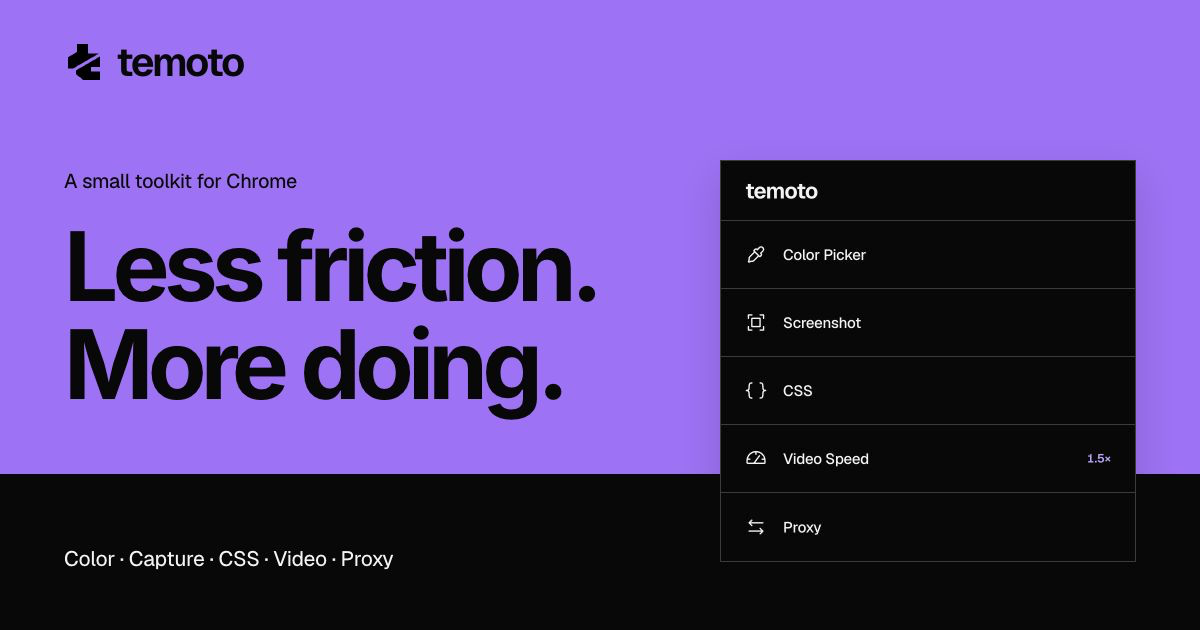
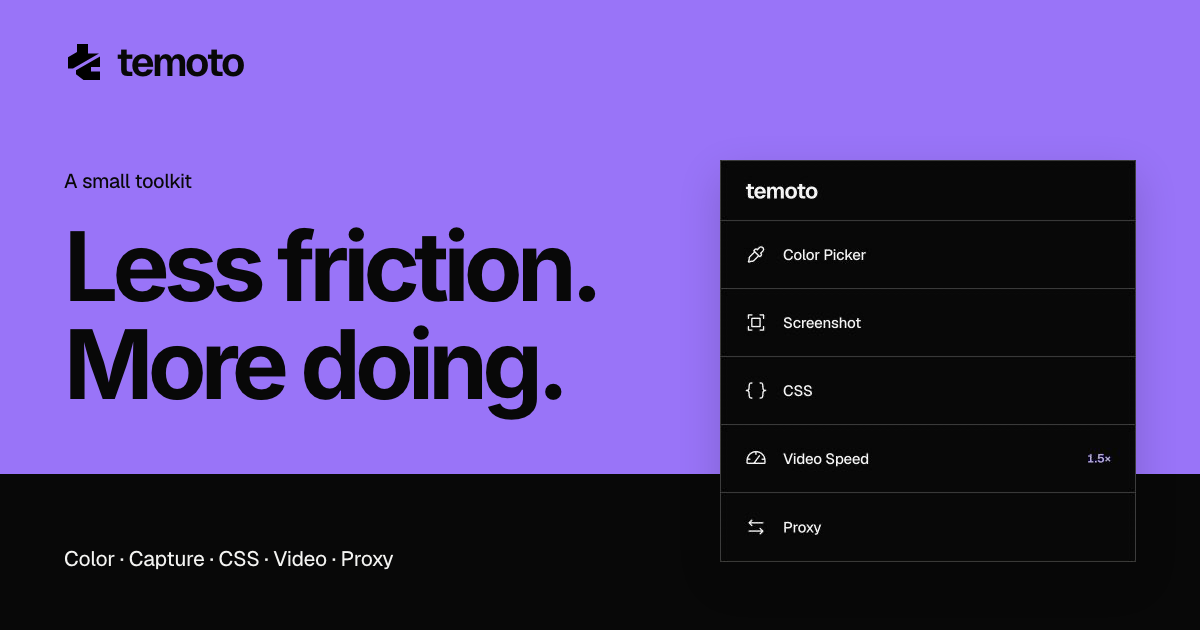
feat: follow browser appearance and simplify temoto branding

diff --git a/browser/temoto-chrome/src/styles.css b/browser/temoto-chrome/src/styles.css
@@ -6,9 +6,58 @@
   color: #f4f4f2;
   background: transparent;
   font-synthesis: none;
-  --black: rgba(8, 8, 8, 0.82);
-  --ink: #f4f4f2;
-  --line: rgba(255, 255, 255, 0.105);
+}
+
+body[data-surface="popup"], body[data-surface="capture"] {
+  color-scheme: dark;
+  --black: var(--temoto-popup-bg);
+  --ink: var(--temoto-popup-text);
+  --line: var(--temoto-popup-line);
+  --temoto-popup-on-accent: #080808;
+  --temoto-launcher-hover: #17131f;
+  --temoto-launcher-active: rgba(255, 255, 255, .065);
+  --temoto-launcher-disabled: #e7e7e4;
+  --temoto-swatch-border: rgba(255, 255, 255, .28);
+  --temoto-empty-text: #939390;
+  --temoto-capture-stage: #111;
+  --temoto-capture-placeholder: #777774;
+  --temoto-capture-action: #171717;
+  --temoto-capture-status: #8e8e8b;
+  --temoto-capture-toolbar: #c5c5c2;
+  --temoto-preview-bg: #050505;
+  --temoto-preview-shadow: rgba(0, 0, 0, .72);
+}
+
+@media (prefers-color-scheme: light) {
+  body[data-surface="popup"], body[data-surface="capture"] {
+    color-scheme: light;
+    --temoto-popup-bg: #f4f4f2;
+    --temoto-popup-surface: rgba(8, 8, 8, .045);
+    --temoto-popup-surface-hover: rgba(8, 8, 8, .08);
+    --temoto-popup-text: #161616;
+    --temoto-popup-muted: #62625e;
+    --temoto-popup-quiet: #62625e;
+    --temoto-popup-line: #c7c7c3;
+    --temoto-popup-line-strong: #858580;
+    --temoto-popup-accent-soft: rgba(153, 116, 248, .14);
+    --temoto-popup-control-text: #3d3d39;
+    --temoto-popup-accent-text: #6540b8;
+    --temoto-popup-focus: #6540b8;
+    --temoto-popup-control-hover-bg: rgba(8, 8, 8, .055);
+    --temoto-popup-control-hover-text: #161616;
+    --temoto-launcher-hover: #eae4f5;
+    --temoto-launcher-active: #ddd3f2;
+    --temoto-launcher-disabled: #3d3d39;
+    --temoto-swatch-border: rgba(8, 8, 8, .28);
+    --temoto-empty-text: #62625e;
+    --temoto-capture-stage: #e8e8e5;
+    --temoto-capture-placeholder: #62625e;
+    --temoto-capture-action: #e8e8e5;
+    --temoto-capture-status: #62625e;
+    --temoto-capture-toolbar: #3d3d39;
+    --temoto-preview-bg: #e8e8e5;
+    --temoto-preview-shadow: rgba(8, 8, 8, .12);
+  }
 }
 
 * { box-sizing: border-box; }
@@ -25,30 +74,27 @@ body {
 
 button, input, select { font: inherit; }
 button { color: inherit; }
-button:focus-visible, input:focus-visible { outline: 2px solid #f4f4f2; outline-offset: 2px; }
+button:focus-visible, input:focus-visible { outline: 2px solid var(--temoto-popup-focus); outline-offset: 2px; }
 
 body[data-surface="popup"] {
   width: var(--temoto-popup-width);
   min-width: var(--temoto-popup-width);
   height: var(--temoto-popup-height);
   overflow: hidden;
-  --black: var(--temoto-popup-bg);
-  --ink: var(--temoto-popup-text);
-  --line: var(--temoto-popup-line);
   font-family: var(--temoto-popup-font);
 }
 body[data-surface="popup"] button:focus-visible,
 body[data-surface="popup"] input:focus-visible { outline-color: var(--temoto-popup-focus); outline-offset: -2px; }
-body[data-surface="capture"] { min-width: 320px; min-height: 100vh; background: #080808; }
+body[data-surface="capture"] { min-width: 320px; min-height: 100vh; background: var(--temoto-popup-bg); }
 
 .app-shell { background: var(--black); }
 .popup-shell { width: var(--temoto-popup-width); min-width: var(--temoto-popup-width); max-height: 580px; display: flex; flex-direction: column; overflow: hidden; position: relative; border: 1px solid var(--line); background: var(--temoto-popup-bg); }
 .app-header { height: var(--temoto-popup-header-height); min-height: var(--temoto-popup-header-height); padding-left: 24px; display: flex; align-items: center; justify-content: space-between; border-bottom: 1px solid var(--line); background: var(--temoto-popup-header-bg); flex: 0 0 auto; }
 .brand-lockup { display: flex; align-items: center; gap: 8px; }
 .brand-name { font-size: var(--temoto-popup-brand-size); line-height: normal; font-weight: var(--temoto-popup-brand-weight); letter-spacing: var(--temoto-popup-brand-tracking); }
-.brand-context { color: #92928f; font-weight: 520; }
+.brand-context { color: var(--temoto-popup-muted); font-weight: 520; }
 .icon-button { width: var(--temoto-popup-header-height); height: 100%; padding: 0; display: grid; place-items: center; border: 0; border-left: 1px solid var(--line); border-radius: 0; background: transparent; cursor: pointer; transition: background .18s ease, color .18s ease, transform .18s ease; }
-.icon-button:hover { background: rgba(255,255,255,.045); color: #fff; }
+.icon-button:hover { background: var(--temoto-popup-control-hover-bg); color: var(--temoto-popup-control-hover-text); }
 .icon-button:active { transform: scale(.96); }
 
 .launcher-header { height: var(--temoto-popup-header-height); min-height: var(--temoto-popup-header-height); padding-left: 24px; background: var(--temoto-popup-header-bg); flex: 0 0 var(--temoto-popup-header-height); }
@@ -60,11 +106,11 @@ body[data-surface="capture"] { min-width: 320px; min-height: 100vh; background: 
 .launcher-label strong { font-size: var(--temoto-label-font-size); font-weight: var(--temoto-label-font-weight); letter-spacing: -.015em; }
 .launcher-card.has-error { padding-block: 12px; }
 .launcher-error { color: var(--temoto-popup-muted); font-size: 11px; line-height: 1.45; overflow-wrap: anywhere; }
-.launcher-card:hover { background: #17131f; color: #fff; }
+.launcher-card:hover { background: var(--temoto-launcher-hover); color: var(--temoto-popup-control-hover-text); }
 .launcher-card:hover > svg { color: var(--temoto-popup-accent-text); }
-.launcher-card:active { background: rgba(255,255,255,.065); }
+.launcher-card:active { background: var(--temoto-launcher-active); }
 .launcher-card:disabled { opacity: var(--temoto-popup-disabled-opacity); cursor: default; }
-.launcher-card:disabled:hover { background: transparent; color: #e7e7e4; }
+.launcher-card:disabled:hover { background: transparent; color: var(--temoto-launcher-disabled); }
 .launcher-meta { margin-left: auto; display: inline-flex; align-items: center; color: var(--temoto-popup-muted); font-size: 11px; line-height: 1.4; letter-spacing: 0; white-space: nowrap; }
 .launcher-meta.is-accent { color: var(--temoto-popup-accent-text); font-size: .75rem; font-weight: 600; font-variant-numeric: tabular-nums; }
 
@@ -85,14 +131,14 @@ body[data-surface="capture"] { min-width: 320px; min-height: 100vh; background: 
 .tool-screen-body .screenshot-actions { width: 100%; }
 .tool-screen-body .screenshot-actions p { margin: 0; padding: 0 24px; text-align: left; }
 .color-readout { min-height: 80px; margin: 0; padding: 0 24px; display: flex; align-items: center; gap: 13px; border-bottom: 1px solid var(--line); }
-.color-readout i { width: 32px; height: 32px; flex: 0 0 auto; border: 1px solid rgba(255,255,255,.28); border-radius: 0; }
+.color-readout i { width: 32px; height: 32px; flex: 0 0 auto; border: 1px solid var(--temoto-swatch-border); border-radius: 0; }
 .color-readout strong { font: 500 21px/1 "IBM Plex Mono", monospace; letter-spacing: -.035em; }
 .speed-screen .speed-control { margin: 0; padding: 0; }
 .speed-screen .speed-value { height: 96px; padding: 0; border-bottom: 1px solid var(--line); align-items: center; font-size: 3.75rem; letter-spacing: -.045em; }
 .speed-screen .speed-value small { color: var(--temoto-popup-muted); font-size: 25px; }
 .speed-screen .speed-shortcuts { height: 48px; margin: 0; border-bottom: 0; }
 .speed-screen:has(.empty-note) .speed-value { height: 76px; font-size: 46px; }
-.empty-note { min-height: 48px; margin: 0; padding: 10px 24px; display: flex; align-items: center; border: 0; border-bottom: 1px solid var(--line); border-radius: 0; background: transparent; color: #939390; font-size: 10px; text-align: left; flex: 0 0 auto; }
+.empty-note { min-height: 48px; margin: 0; padding: 10px 24px; display: flex; align-items: center; border: 0; border-bottom: 1px solid var(--line); border-radius: 0; background: transparent; color: var(--temoto-empty-text); font-size: 10px; text-align: left; flex: 0 0 auto; }
 .screenshot-actions { display: flex; flex-direction: column; }
 .screenshot-actions > button { padding: 0 24px; justify-content: flex-start; gap: 12px; }
 .screenshot-actions p { min-height: 40px; color: var(--temoto-popup-muted); font-size: 11px; line-height: 1.6; border-bottom: 1px solid var(--line); display: flex; align-items: center; }
@@ -105,7 +151,7 @@ body[data-surface="capture"] { min-width: 320px; min-height: 100vh; background: 
 .speed-presets button { min-height: var(--temoto-control-height); border: 0; border-right: 1px solid var(--line); border-bottom: 1px solid var(--line); background: transparent; color: var(--temoto-popup-control-text); font-size: var(--temoto-control-font-size); font-weight: var(--temoto-control-font-weight); line-height: 1.4; font-variant-numeric: tabular-nums; cursor: pointer; }
 .speed-presets button:last-child { border-right: 0; }
 .speed-presets button:hover:not(:disabled) { background: var(--temoto-popup-control-hover-bg); color: var(--temoto-popup-control-hover-text); }
-.speed-presets button.is-active { background: var(--temoto-popup-accent); color: var(--temoto-popup-bg); }
+.speed-presets button.is-active { background: var(--temoto-popup-accent); color: var(--temoto-popup-on-accent); }
 .speed-stepper { display: grid; grid-template-columns: repeat(2, minmax(0, 1fr)); }
 .speed-stepper button { min-height: var(--temoto-action-row-height); padding: 0 16px; border: 0; border-bottom: 1px solid var(--line); background: transparent; color: var(--temoto-popup-text); font-size: var(--temoto-control-font-size); font-weight: var(--temoto-control-font-weight); line-height: 1.4; font-variant-numeric: tabular-nums; cursor: pointer; }
 .speed-stepper button + button { border-left: 1px solid var(--line); }
@@ -119,19 +165,19 @@ body[data-surface="capture"] { min-width: 320px; min-height: 100vh; background: 
 .tool-error { margin: 0; padding: 12px 24px; flex: 0 0 auto; border-bottom: 1px solid var(--line); color: var(--ink); background: var(--temoto-popup-accent-soft); font-size: .75rem; line-height: 1.6; overflow-wrap: anywhere; }
 .capture-shell { min-height: 100vh; }
 .capture-content { width: min(100% - 48px, 1120px); margin: 0 auto; padding: 32px 0 48px; }
-.capture-stage { min-height: 300px; max-height: 70vh; overflow: auto; border: 1px solid var(--line); background: #111; }
-.capture-stage p { padding: 24px; color: #777774; font-size: 12px; }
+.capture-stage { min-height: 300px; max-height: 70vh; overflow: auto; border: 1px solid var(--line); background: var(--temoto-capture-stage); }
+.capture-stage p { padding: 24px; color: var(--temoto-capture-placeholder); font-size: 12px; }
 .capture-stage canvas { display: none; max-width: 100%; height: auto; margin: auto; }
 .capture-stage.is-actual canvas { max-width: none; margin: 0; }
 .capture-stage.is-ready canvas { display: block; }
 .capture-actions { width: min(100%, 320px); margin: 14px 0 0 auto; display: grid; grid-template-columns: repeat(2, minmax(0, 1fr)); gap: 8px; }
-.capture-actions button { min-height: var(--temoto-control-height); padding: 0 16px; display: flex; align-items: center; justify-content: center; gap: 8px; border: 1px solid var(--line); border-radius: 0; background: #171717; font-size: var(--temoto-control-font-size); font-weight: var(--temoto-control-font-weight); line-height: 1.4; cursor: pointer; }
-.capture-actions button:last-child { background: var(--temoto-popup-accent); color: var(--temoto-popup-bg); border-color: var(--temoto-popup-accent); }
-.capture-status { color: #8e8e8b; font-size: 10px; text-align: right; }
+.capture-actions button { min-height: var(--temoto-control-height); padding: 0 16px; display: flex; align-items: center; justify-content: center; gap: 8px; border: 1px solid var(--line); border-radius: 0; background: var(--temoto-capture-action); font-size: var(--temoto-control-font-size); font-weight: var(--temoto-control-font-weight); line-height: 1.4; cursor: pointer; }
+.capture-actions button:last-child { background: var(--temoto-popup-accent); color: var(--temoto-popup-on-accent); border-color: var(--temoto-popup-accent); }
+.capture-status { color: var(--temoto-capture-status); font-size: 10px; text-align: right; }
 
 @media (min-width: 700px) {
-  body[data-surface="popup"] { width: 100%; height: 100vh; display: grid; place-items: center; background: #050505; }
-  body[data-surface="popup"] .popup-shell { box-shadow: 0 40px 120px rgba(0,0,0,.72); }
+  body[data-surface="popup"] { width: 100%; height: 100vh; display: grid; place-items: center; background: var(--temoto-preview-bg); }
+  body[data-surface="popup"] .popup-shell { box-shadow: 0 40px 120px var(--temoto-preview-shadow); }
 }
 
 .color-screen .color-readout { min-height: 88px; }
@@ -139,15 +185,15 @@ body[data-surface="capture"] { min-width: 320px; min-height: 100vh; background: 
 .color-formats { display: grid; grid-template-columns: repeat(3, minmax(0, 1fr)); }
 .color-formats button { min-height: var(--temoto-control-height); border: 0; border-right: 1px solid var(--line); border-bottom: 1px solid var(--line); background: transparent; cursor: pointer; font-size: var(--temoto-control-font-size); font-weight: var(--temoto-control-font-weight); line-height: 1.4; }
 .color-formats button:last-child { border-right: 0; }
-.color-formats button[aria-pressed="true"] { background: var(--temoto-popup-accent); color: #080808; }
+.color-formats button[aria-pressed="true"] { background: var(--temoto-popup-accent); color: var(--temoto-popup-on-accent); }
 .color-history { display: grid; grid-template-columns: repeat(8, minmax(0, 1fr)); padding: 12px 24px; gap: 2px; }
 .color-history button { min-height: var(--temoto-control-height); padding: 4px; display: grid; place-items: center; border: 1px solid transparent; background: transparent; cursor: pointer; }
 .color-history button[aria-pressed="true"] { border-color: var(--temoto-popup-accent); }
-.color-history i { width: 25px; height: 25px; border: 1px solid rgba(255,255,255,.25); }
+.color-history i { width: 25px; height: 25px; border: 1px solid var(--temoto-swatch-border); }
 .speed-state { margin: 0; padding: 8px 24px; color: var(--temoto-popup-muted); font-size: 11px; line-height: 1.6; }
-.capture-toolbar { display: flex; flex-wrap: wrap; justify-content: space-between; gap: 12px 16px; align-items: center; margin-bottom: 12px; color: #c5c5c2; font-size: 12px; }
+.capture-toolbar { display: flex; flex-wrap: wrap; justify-content: space-between; gap: 12px 16px; align-items: center; margin-bottom: 12px; color: var(--temoto-capture-toolbar); font-size: 12px; }
 .capture-dimensions { font: 11px "IBM Plex Mono", monospace; }
 .capture-toolbar > div { display: grid; grid-template-columns: repeat(2, minmax(0, 1fr)); }
 .capture-toolbar button { min-height: var(--temoto-control-height); padding: 0 16px; border: 1px solid var(--line); background: transparent; font-size: var(--temoto-control-font-size); font-weight: var(--temoto-control-font-weight); line-height: 1.4; cursor: pointer; }
-.capture-toolbar button[aria-pressed="true"] { background: #9974f8; color: #080808; }
+.capture-toolbar button[aria-pressed="true"] { background: var(--temoto-popup-accent); color: var(--temoto-popup-on-accent); }
 button:disabled { cursor: default; opacity: var(--temoto-popup-disabled-opacity); }

diff --git a/browser/temoto-chrome/src/proxy.css b/browser/temoto-chrome/src/proxy.css
@@ -16,20 +16,20 @@
 .proxy-edit-cell { height: var(--temoto-launcher-row-height); display: grid; place-items: center; border-bottom: 1px solid var(--line); }
 .proxy-edit { width: var(--temoto-control-height); height: var(--temoto-control-height); padding: 0; display: grid; place-items: center; border: 0; border-radius: 0; background: transparent; color: inherit; }
 .proxy-select:hover:not(:disabled), .proxy-edit:hover:not(:disabled) { background: var(--temoto-popup-surface-hover); }
-.proxy-profile-row.is-active, .proxy-off.is-active { background: var(--temoto-popup-accent); color: var(--temoto-popup-bg); }
+.proxy-profile-row.is-active, .proxy-off.is-active { background: var(--temoto-popup-accent); color: var(--temoto-popup-on-accent); }
 .proxy-profile-row.is-active .proxy-copy small { color: inherit; }
-.proxy-profile-row.is-active button:focus-visible, .proxy-off.is-active:focus-visible, .proxy-kind button[aria-pressed="true"]:focus-visible { outline-color: var(--temoto-popup-bg); }
+.proxy-profile-row.is-active button:focus-visible, .proxy-off.is-active:focus-visible, .proxy-kind button[aria-pressed="true"]:focus-visible { outline-color: var(--temoto-popup-on-accent); }
 .proxy-editor { margin: 0; }
 .proxy-fields { margin: 0; padding: 0; border: 0; min-width: 0; }
 .proxy-field { display: grid; grid-template-columns: 82px minmax(0, 1fr); align-items: center; gap: 16px; min-height: 68px; padding: 12px 24px; border-bottom: 1px solid var(--line); }
 .proxy-field > span { color: var(--temoto-popup-muted); font-size: .75rem; line-height: 1.4; }
-.proxy-field input, .proxy-field select { width: 100%; min-width: 0; height: var(--temoto-control-height); padding: 0; border: 0; border-bottom: 1px solid var(--line); border-radius: 0; background: transparent; color: var(--temoto-popup-text); font-family: var(--temoto-ui-font); font-size: var(--temoto-control-font-size); font-weight: var(--temoto-control-font-weight); line-height: 1.4; color-scheme: dark; }
+.proxy-field input, .proxy-field select { width: 100%; min-width: 0; height: var(--temoto-control-height); padding: 0; border: 0; border-bottom: 1px solid var(--line); border-radius: 0; background: transparent; color: var(--temoto-popup-text); font-family: var(--temoto-ui-font); font-size: var(--temoto-control-font-size); font-weight: var(--temoto-control-font-weight); line-height: 1.4; color-scheme: inherit; }
 .proxy-field select, .proxy-field select option { background-color: var(--temoto-popup-bg); color: var(--temoto-popup-text); }
 .proxy-field input:focus-visible, .proxy-field select:focus-visible { outline: none; border-bottom-color: var(--temoto-popup-focus); box-shadow: inset 0 -1px var(--temoto-popup-focus); }
 .proxy-kind { display: grid; grid-template-columns: repeat(2, minmax(0, 1fr)); }
 .proxy-kind button { height: var(--temoto-control-height); border: 0; border-bottom: 1px solid var(--line); background: transparent; color: var(--temoto-popup-text); }
 .proxy-kind button + button { border-left: 1px solid var(--line); }
-.proxy-kind button[aria-pressed="true"] { background: var(--temoto-popup-accent); color: var(--temoto-popup-bg); }
+.proxy-kind button[aria-pressed="true"] { background: var(--temoto-popup-accent); color: var(--temoto-popup-on-accent); }
 .proxy-action-row { display: grid; grid-template-columns: repeat(2, minmax(0, 1fr)); }
 .proxy-action { min-height: var(--temoto-action-row-height); padding: 0 16px; border: 0; border-bottom: 1px solid var(--line); border-radius: 0; background: var(--temoto-popup-bg); color: var(--temoto-popup-text); }
 .proxy-action-row .proxy-action + .proxy-action { border-left: 1px solid var(--line); }

diff --git a/browser/temoto-chrome/src/extension/content/video-speed.ts b/browser/temoto-chrome/src/extension/content/video-speed.ts
@@ -21,6 +21,7 @@
   let fontRequested = false;
   let badgeFont: FontFace | null = null;
   const badgeFontFamily = "temoto Geist Sans";
+  const lightScheme = typeof window.matchMedia === "function" ? window.matchMedia("(prefers-color-scheme: light)") : null;
 
   const isActive = (): boolean => {
     if (stopped) return false;
@@ -39,6 +40,23 @@
     } else {
       isActive();
     }
+  };
+  const styleBadge = (badge: HTMLDivElement) => {
+    Object.assign(badge.style, lightScheme?.matches ? {
+      border: "1px solid rgba(8,8,8,.12)",
+      background: "rgba(244,244,242,.88)",
+      color: "rgba(8,8,8,.78)",
+      textShadow: "none",
+    } : {
+      border: "1px solid rgba(255,255,255,.09)",
+      background: "rgba(8,8,8,.38)",
+      color: "rgba(255,255,255,.72)",
+      textShadow: "0 1px 2px rgba(0,0,0,.45)",
+    });
+  };
+  const syncBadgeTheme = () => {
+    if (!isActive()) return;
+    trackedVideos.forEach(({ badge }) => styleBadge(badge));
   };
   const loadBadgeFont = async (): Promise<void> => {
     if (fontRequested || !isActive()) return;
@@ -149,18 +167,15 @@
       boxSizing: "border-box",
       minWidth: "30px",
       padding: "2px 5px",
-      border: "1px solid rgba(255,255,255,.09)",
       borderRadius: "4px",
-      background: "rgba(8,8,8,.38)",
-      color: "rgba(255,255,255,.72)",
       font: `600 12px/1.2 "${badgeFontFamily}", ui-sans-serif, system-ui, -apple-system, BlinkMacSystemFont, "Segoe UI", sans-serif`,
       fontVariantNumeric: "tabular-nums",
       letterSpacing: "-.01em",
       textAlign: "center",
-      textShadow: "0 1px 2px rgba(0,0,0,.45)",
       backdropFilter: "blur(5px)",
       WebkitBackdropFilter: "blur(5px)",
     });
+    styleBadge(badge);
     badge.textContent = formatSpeed(video.playbackRate);
 
     const onRateChange = () => syncVideo(video);
@@ -248,9 +263,11 @@
   window.addEventListener("scroll", schedulePosition, true);
   window.addEventListener("resize", schedulePosition);
   document.addEventListener("fullscreenchange", schedulePosition);
+  lightScheme?.addEventListener("change", syncBadgeTheme);
   function cleanup(): void {
     if (stopped) return;
     stopped = true;
+    lightScheme?.removeEventListener("change", syncBadgeTheme);
     if (badgeFont) {
       try {
         document.fonts.delete(badgeFont);

diff --git a/browser/temoto-chrome/src/extension/content/measure.ts b/browser/temoto-chrome/src/extension/content/measure.ts
@@ -33,11 +33,10 @@
   const shadow = host.attachShadow({ mode: "open" });
   const style = document.createElement("style");
   style.textContent = `
-    :host { color-scheme: dark; }
     *, *::before, *::after { box-sizing: border-box; }
     [hidden] { display: none !important; }
     .outline { position: fixed; pointer-events: none; border: 1px solid #9974f8; background: #9974f810; }
-    .guide, .panel, .tooltip { color: #f4f4f2; background: #080808; border: 1px solid #484848; font: 12px/1.45 -apple-system, BlinkMacSystemFont, "Segoe UI", sans-serif; }
+    .guide, .panel, .tooltip { color-scheme: dark; color: #f4f4f2; background: #080808; border: 1px solid #484848; font: 12px/1.45 -apple-system, BlinkMacSystemFont, "Segoe UI", sans-serif; }
     .guide { position: fixed; top: 12px; left: 50%; transform: translateX(-50%); display: flex; align-items: center; gap: 12px; max-width: calc(100vw - 24px); padding-left: 12px; pointer-events: auto; }
     .guide span { padding: 10px 0; }
     .guide strong { color: #bba4fb; white-space: nowrap; }
@@ -67,6 +66,16 @@
     summary:focus-visible { outline: 2px solid #bba4fb; outline-offset: -3px; }
     pre { margin: 0; padding: 0 12px 12px; white-space: pre-wrap; overflow-wrap: anywhere; user-select: text; color: #d8d8d5; font: 10px/1.6 ui-monospace, monospace; }
     .hint { margin: 0; padding: 9px 12px; border-top: 1px solid #303030; color: #aaa; font-size: 11px; }
+    @media (prefers-color-scheme: light) {
+      .guide, .panel, .tooltip { color-scheme: light; color: #161616; background: #f4f4f2; border-color: #c7c7c3; }
+      header, .close, .element, .row, dt, .actions, .actions button + button, .another, details, .hint { border-color: #c7c7c3; }
+      .guide strong, .element, .primary { color: #6540b8; }
+      button:hover { background: #e8e8e5; }
+      button:focus-visible, summary:focus-visible { outline-color: #6540b8; }
+      button:disabled, dt, .hint { color: #62625e; }
+      .swatch { border-color: #62625e; }
+      pre { color: #161616; }
+    }
     @media (forced-colors: active) { .outline { border: 2px solid Highlight; } button:focus-visible { outline-color: Highlight; } }
   `;
   const create = <K extends keyof HTMLElementTagNameMap>(tag: K, className = "", text = ""): HTMLElementTagNameMap[K] => {

diff --git a/site/scripts/og.html b/site/scripts/og.html
@@ -123,7 +123,7 @@
       <div class="lower-field" aria-hidden="true"></div>
       <header class="brand"><img src="../public/temoto-mark.svg" alt="" /><span>temoto</span></header>
       <section class="copy">
-        <p class="eyebrow">A small toolkit for Chrome</p>
+        <p class="eyebrow">A small toolkit</p>
         <h1><span>Less friction.</span><span>More doing.</span></h1>
       </section>
       <img class="launcher" src="../public/showcase/chrome-launcher.png" width="416" height="402" alt="temoto's five tools: Color Picker, Screenshot, CSS, Video Speed, and Proxy" />

diff --git a/site/app/page.tsx b/site/app/page.tsx
@@ -15,7 +15,7 @@ export default function Home() {
     </header>
     <main id="content">
       <section className="hero" aria-labelledby="temoto-title">
-        <p className="eyebrow">A small toolkit for Chrome</p>
+        <p className="eyebrow">A small toolkit</p>
         <h1 id="temoto-title"><span>Less friction.</span><span>More doing.</span></h1>
         <a className="store-link" href={chromeStoreUrl}>Add to Chrome</a>
         <p className="hero-meta">Free · Open source · No account</p>

diff --git a/site/app/layout.tsx b/site/app/layout.tsx
@@ -18,13 +18,13 @@ export const metadata: Metadata = {
     description,
     type: "website",
     locale: "en_US",
-    images: [{ url: "/og-temoto.png?v=7707304e185e", width: 1200, height: 630, alt: title }],
+    images: [{ url: "/og-temoto.png?v=ad48b7f1619d", width: 1200, height: 630, alt: title }],
   },
   twitter: {
     card: "summary_large_image",
     title,
     description,
-    images: ["/og-temoto.png?v=7707304e185e"],
+    images: ["/og-temoto.png?v=ad48b7f1619d"],
   },
 };
 

diff --git a/browser/temoto-chrome/src/extension/content/webmcp-provider.ts b/browser/temoto-chrome/src/extension/content/webmcp-provider.ts
@@ -79,7 +79,7 @@
   const tools: ToolDefinition[] = [
     {
       name: "temoto_ping",
-      description: "Check that temoto for Chrome is installed and reachable from this page.",
+      description: "Check that temoto is installed and reachable from this page.",
       inputSchema: { type: "object", properties: {}, additionalProperties: false },
       annotations: { readOnlyHint: true, untrustedContentHint: false },
       execute: async () => callExtension({ type: "WEBMCP_PING" }),

diff --git a/browser/temoto-chrome/src/extension/service-worker.ts b/browser/temoto-chrome/src/extension/service-worker.ts
@@ -494,7 +494,7 @@ async function handleMessage(message: ExtensionMessage, sender: chrome.runtime.M
     case "WEBMCP_PING":
       return {
         ok: true,
-        name: "temoto for Chrome",
+        name: "temoto",
         version: chrome.runtime.getManifest().version,
       };
     case "WEBMCP_SET_VIDEO_SPEED": {

diff --git a/browser/temoto-chrome/capture.html b/browser/temoto-chrome/capture.html
@@ -3,7 +3,7 @@
   <head>
     <meta charset="UTF-8" />
     <meta name="viewport" content="width=device-width, initial-scale=1.0" />
-    <meta name="color-scheme" content="dark" />
+    <meta name="color-scheme" content="light dark" />
     <title>temoto capture</title>
   </head>
   <body data-surface="capture">

diff --git a/browser/temoto-chrome/index.html b/browser/temoto-chrome/index.html
@@ -3,7 +3,7 @@
   <head>
     <meta charset="UTF-8" />
     <meta name="viewport" content="width=device-width, initial-scale=1.0" />
-    <meta name="color-scheme" content="dark" />
+    <meta name="color-scheme" content="light dark" />
     <title>temoto</title>
   </head>
   <body data-surface="popup">

diff --git a/browser/temoto-chrome/AGENTS.md b/browser/temoto-chrome/AGENTS.md
@@ -14,13 +14,13 @@ The user approved the four-tool cleanup on 2026-10-12, then approved integrating
 
 - The core extension contains exactly Color Picker, Screenshot, CSS, Video Speed, and Proxy. Keep environment navigation, site reset, environment settings, and the environment side panel out of the product.
 - The approved site-aligned popup theme is the default implementation. Reuse shared colors, typography, and header tokens from `browser/shared/temoto-popup-tokens.css`; product-specific dimensions and feedback remain separate. Do not package study assets or query switches.
-- The in-product header is lowercase `temoto`; the existing Store listing name stays `temoto for Chrome`. `temoto Proxy` identifies the legacy separately installed extension only.
-- Both popups use a flat #080808 surface, visible 1px rules, off-white text and purple selection. Avoid translucent glass, rounded cards, and red/green/amber status colors. Express errors through clear text in neutral tones. Do not modify Proxy profile colors as part of core changes.
+- The in-product header and Store listing name are lowercase `temoto`. On 2026-10-15 the user approved removing the browser suffix from the product name across the extension and related material. `temoto Proxy` identifies the legacy separately installed extension only.
+- Keep flat surfaces, visible 1px rules and purple selection. On 2026-10-15, the user chose automatic light/dark appearance for the main Chrome extension only, following the browser-reported color preference without a manual theme setting. Dark mode retains #080808 and off-white text; light mode uses an off-white surface and dark text. Apply this to popup tools, capture preview and page overlays without changing captured pixels. Keep the website and legacy Proxy appearance unchanged. Avoid translucent glass, rounded cards, and red/green/amber status colors. Express errors through clear text in neutral tones. Do not modify Proxy profile colors as part of core changes.
 - Keep the Chrome popup 416px wide with a 60px header and content-sized height (up to 580px). The user removed the unused bottom rail and chose English-only UI on 2026-10-12. Do not reserve space for notifications or switch language based on the page, Chrome locale, or query string.
 - The user simplified the layout on 2026-10-13. The launcher is five 68px rows with an icon and tool name, separated by 1px rules. Do not add feature descriptions, helper paragraphs, or empty history placeholders. Avoid separate card backgrounds, gaps, rounded corners, and status pills.
 - Do not show success toasts for picking/copying colors, starting inspection, or capturing/copying/saving images. Show actual operation failures as persistent inline error text in the affected tool; clear it when retrying or changing tools. Keep useful in-progress capture state and actual video state.
 - The user removed passive browser-access error banners on 2026-10-14. Opening temoto on a restricted page such as `chrome://` or the Chrome Web Store must stay quiet and disable page-dependent tools. Do not expose raw browser errors from background page detection. Keep Color Picker and Proxy available, and show concise actionable feedback only when an explicitly requested operation needs it.
-- Keep the header compact with a single-line white `temoto` wordmark and no separate mark beside it. The core has no environment Settings entry. Do not add a persistent current-page/video strip or Proxy status to its home surface.
+- Keep the header compact with a single-line `temoto` wordmark in the current text color and no separate mark beside it. The core has no environment Settings entry. Do not add a persistent current-page/video strip or Proxy status to its home surface.
 - Typography and SVG refinements must preserve the approved black/purple flat direction. Use locally bundled Geist Sans Variable for the UI, wordmark, and playback-rate numbers, with tabular numerals for rates. Keep IBM Plex Mono only for technical color values and capture dimensions. The popup and page video badges share `public/fonts/geist-latin-wght-normal.woff2`, with its license bundled. Page video badges attempt to load Geist and use an explicit system sans fallback when loading is unavailable or fails; do not claim Geist is applied without verifying the rendered font. Video font failure must not break speed controls or apply the font to the page's own content.
 - Use consistent regular-weight Phosphor icons: 22px launcher, 20px tool header, and 18px actions. Place launcher icons beside the tool names at a 24px left inset. Keep product-specific typography refinements in core styles so they do not silently change Proxy.
 - The user requested consistent control sizes across both extensions on 2026-10-13. Use shared tokens for 44px standard controls, 56px full-width action rows, 68px launcher/profile rows, and 13px/500 Geist control labels. Give adjacent actions equal columns; headers and value readouts retain their separate hierarchy. Use the same font family and brand tokens in popup, capture preview, and Proxy's inline editor.
